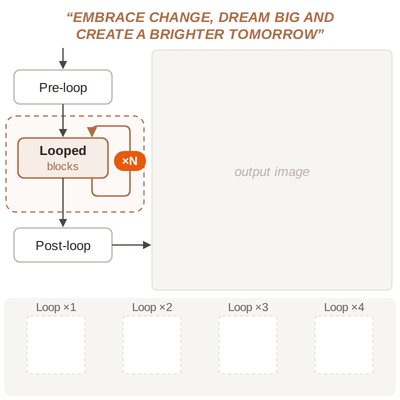
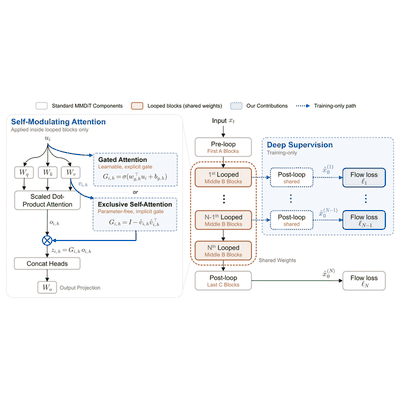
Rest the Looped-DiT thumbnail on the paper's own Figure 3
The thumbnail is now Figure 3 (Overview of Looped-DiT) rendered from the
paper, replacing a redrawing of an earlier draft's figure. On hover the
camera zooms into the looped blocks, steps through the loops, and shows
the loop x1-x4 samples of Figure 1(c) with their misspelled words
underlined, then zooms back out to Figure 3.

diff --git a/index.html b/index.html
@@ -64,7 +64,7 @@
 <p aria-live="polite" class="sr-only" id="filter-status" role="status"></p>
 </div><div class="papers" id="publications">
 <article aria-labelledby="looped-dit-title" class="paper hl" id="looped-dit">
-<a aria-label="View the full Looped Diffusion Transformer results figure" class="thumb" data-anim="assets/looped-dit-anim.gif" href="assets/looped-dit-fig1.png"><img alt="Looped-DiT architecture: pre-loop blocks, shared middle blocks looped N times, and post-loop blocks that decode the image, with slots for loops 1 to 4." decoding="async" height="400" loading="eager" src="assets/looped-dit-arch.png" width="400"/></a>
+<a aria-label="View the full Looped Diffusion Transformer results figure" class="thumb" data-anim="assets/looped-dit-anim.gif" href="assets/looped-dit-fig1.png"><img alt="Looped-DiT overview (Figure 3): pre-loop blocks, shared middle blocks looped N times and post-loop blocks, with self-modulating attention (gated or exclusive self-attention) inside the looped blocks and deep supervision that decodes every loop into a flow loss." decoding="async" height="400" loading="eager" src="assets/looped-dit-arch.png" width="400"/></a>
 <div class="body">
 <h3 class="t" id="looped-dit-title"><a href="#looped-dit">Looped Diffusion Transformer</a></h3>
 <!-- TODO: full author list once the preprint is public -->

diff --git a/assets/SOURCES.md b/assets/SOURCES.md
@@ -9,6 +9,6 @@ Figures are presented alongside links to their respective papers. Existing asset
 
 Hover animations for the selected papers redraw each paper's own figures and animate them:
 
-- `looped-dit-anim.gif`: the Looped-DiT overview (Figure 3) and the loop ×1–×4 samples of Figure 1(c), with the misspelled words underlined at each loop. `looped-dit-arch.png` is its first frame, the architecture diagram.
+- `looped-dit-anim.gif`: Figure 3 (Overview of Looped-DiT), zooming into its looped blocks and running them loop by loop, with the loop ×1–×4 samples of Figure 1(c) and their misspelled words underlined. `looped-dit-arch.png` is its first frame, Figure 3 itself.
 - `mars-anim.gif`: the pipeline of Figure 3, https://arxiv.org/abs/2512.24330, running the reasoning trajectory of Figure 2 (racer photo and logo crop). `mars-thumb.png` is its first frame, the pipeline diagram.
 - `mask-grounding-anim.gif`: Mask Grounding in Figure 2(b) (image, mask and predicted word), https://arxiv.org/abs/2312.12198
